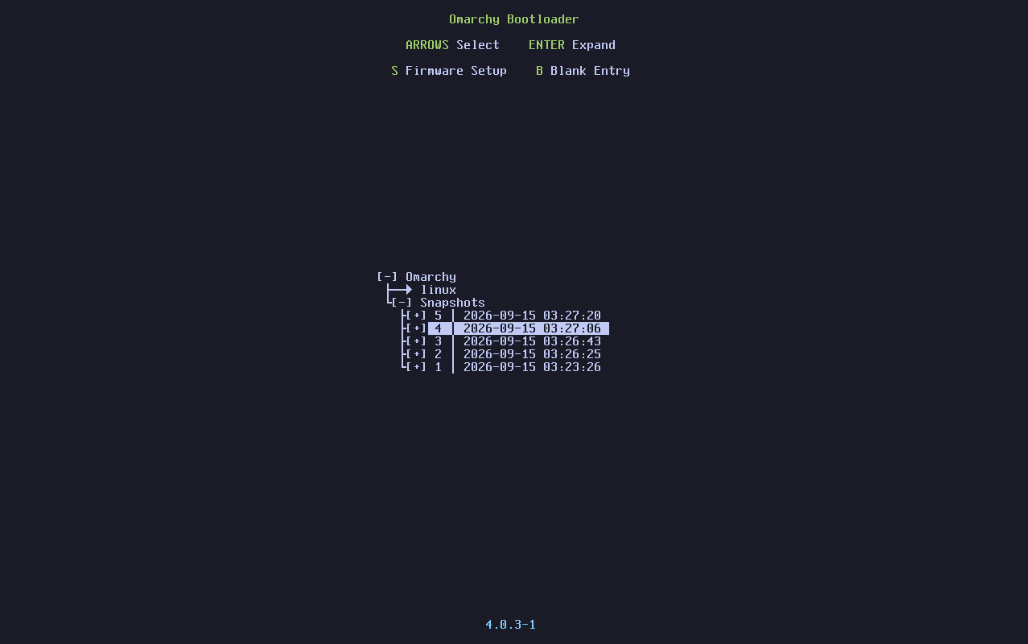
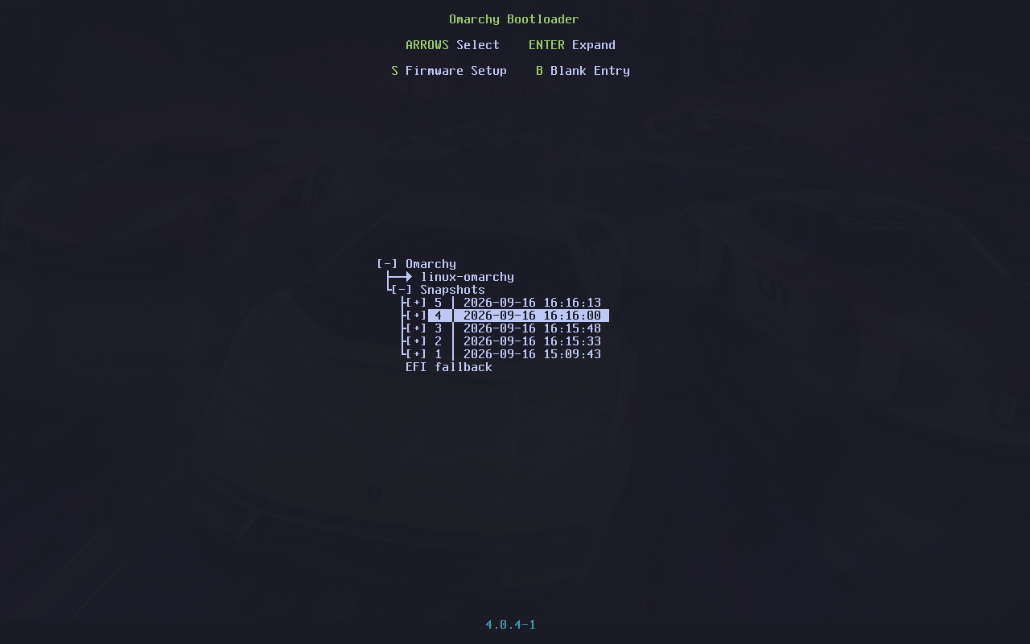
Name the Limine layout reference Tokyo Night; drop Asphalt assets.

Changed region(s): [[0.3735, 0.4037, 0.5914, 0.5901], [0.3735, 0.0, 0.6226, 0.1242], [0.4669, 0.9627, 0.5292, 0.9938]]

diff --git a/README.md b/README.md
@@ -90,13 +90,13 @@ matched it first; this release tracks live Limine 12 / Omarchy 4 chrome instead.
 
 | Real Limine (QEMU — grey letterbox cropped) | OmaBoot mockup |
 | --- | --- |
-| ![Real Omarchy Limine — QEMU reference with linux-omarchy, Snapshots, EFI fallback](reference-limine-asphalt.png) | ![OmaBoot mockup — same layout, Tokyo Night from colors.toml](preview-tokyo-night.png) |
+| ![Real Omarchy Limine — Tokyo Night QEMU reference with linux-omarchy, Snapshots, EFI fallback](reference-limine-tokyo-night.png) | ![OmaBoot mockup — same layout, Tokyo Night from colors.toml](preview-tokyo-night.png) |
 
 Hero at the top is the same chrome on **Hackerman**. The real shot above is the
-current Limine layout (`linux-omarchy`, Snapshots, **EFI fallback**); the mockup
-traces that silhouette and recolours from `colors.toml` as **Tokyo Night** (the
-palette the stock install still ships). Asphalt-legends redraw kept at
-[`preview-asphalt-legends.png`](preview-asphalt-legends.png).
+current Limine layout (`linux-omarchy`, Snapshots, **EFI fallback**) on
+**Tokyo Night**; the mockup traces that silhouette from `colors.toml`. An older
+2.x / early 3.x corner-help capture is kept as
+[`reference-limine-tokyo-night-legacy.png`](reference-limine-tokyo-night-legacy.png).
 
 ## Install
 
@@ -180,12 +180,12 @@ bash ~/.config/omarchy/plugins/io.github.alxwolfenstein97.omaboot/check.sh
 
 ## Credits
 
-- **Layout reference:** [`reference-limine-asphalt.png`](reference-limine-asphalt.png)
-  — QEMU capture of current Omarchy Limine (`linux-omarchy`, Snapshots, EFI
-  fallback; grey letterbox cropped). Compare mockup (Tokyo Night):
-  [`preview-tokyo-night.png`](preview-tokyo-night.png). Older Tokyo Night capture
-  kept as [`reference-limine-tokyo-night.png`](reference-limine-tokyo-night.png);
-  Asphalt redraw: [`preview-asphalt-legends.png`](preview-asphalt-legends.png).
+- **Layout reference:** [`reference-limine-tokyo-night.png`](reference-limine-tokyo-night.png)
+  — QEMU capture of current Omarchy Limine on Tokyo Night (`linux-omarchy`,
+  Snapshots, EFI fallback; grey letterbox cropped). Compare mockup:
+  [`preview-tokyo-night.png`](preview-tokyo-night.png). Older 2.x / early 3.x
+  corner-help capture:
+  [`reference-limine-tokyo-night-legacy.png`](reference-limine-tokyo-night-legacy.png).
 - Hero mockup: official **Hackerman** theme (the loudest stock neon Omarchy
   ships).
 - Sibling plugins: [OmaOBS](https://github.com/AlxWolfenstein97/omaobs),
